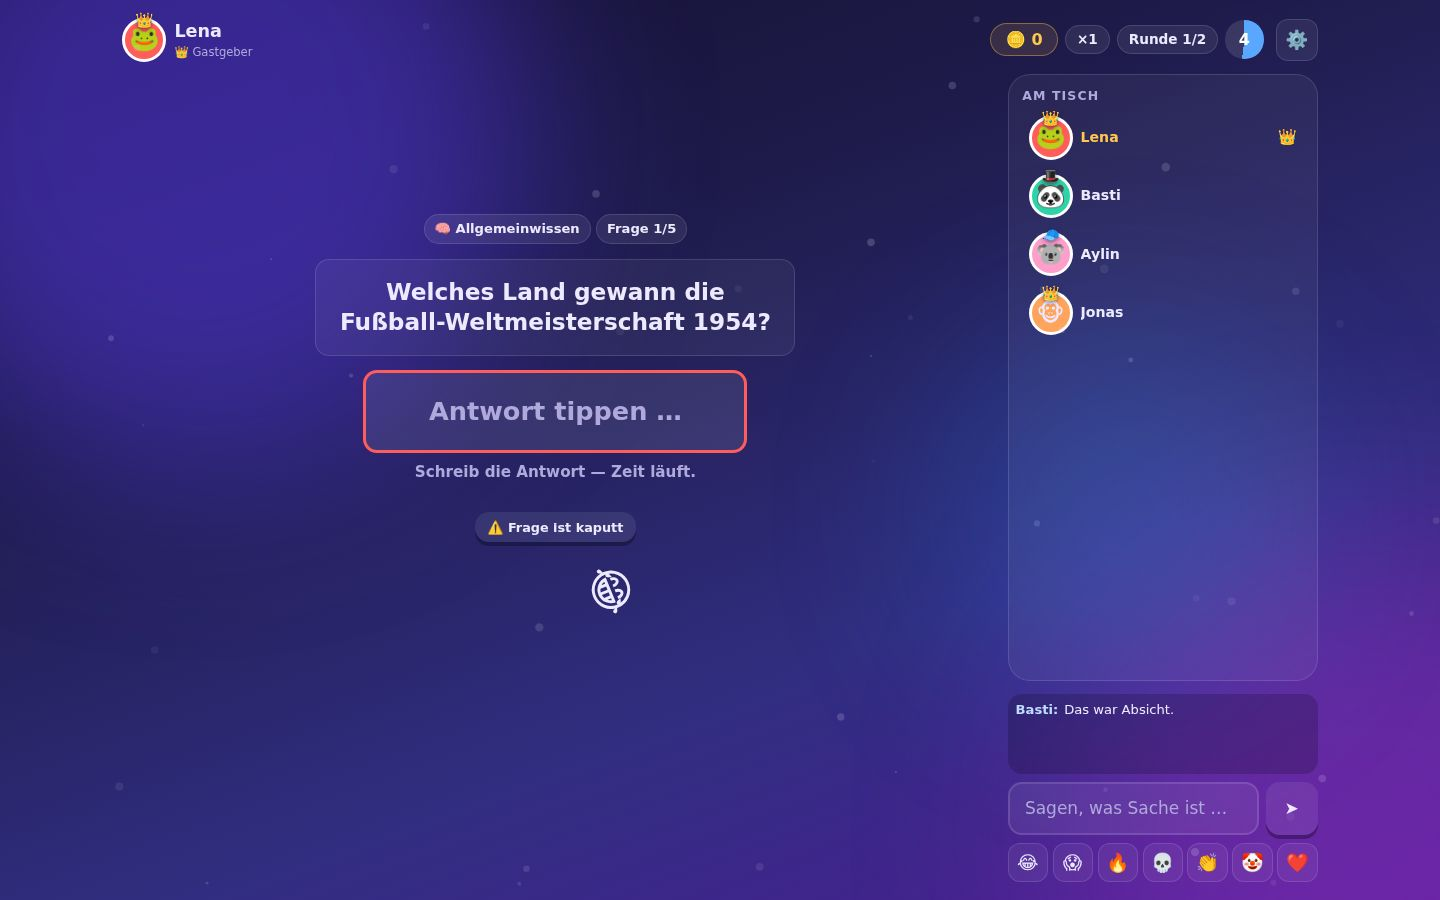
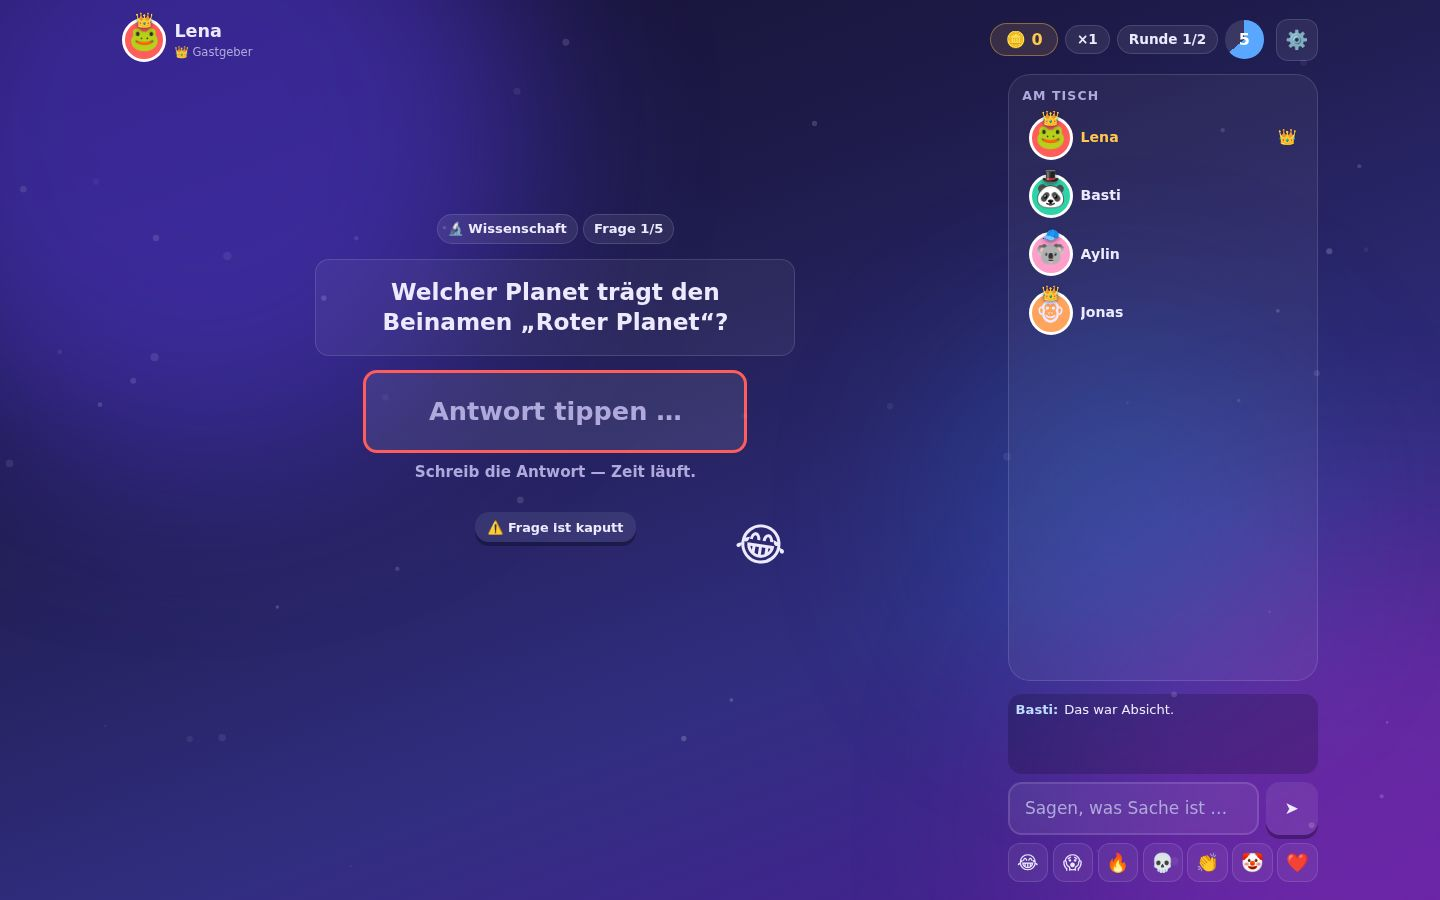
Give the recap a top edge and the wheel some presence
The recap headline was cut off: a centred flex column that overflows
clips at the top, and nothing can scroll back up to it. The round-end
scene now starts at the top like the results screen does, with the
smaller headline variant. The category wheel got bigger while I was in
there -- it carries a whole beat on its own.

Claude-Session: https://claude.ai/code/session_01FFf3gRaLyNXhXsXRuMdJNR

diff --git a/public/css/stage.css b/public/css/stage.css
@@ -36,6 +36,9 @@
 /* Der Ergebnis-Screen ist der einzige, der mehr Inhalt hat als Höhe:
    Podest, Awards, Recap und Tabelle. Er beginnt oben und scrollt. */
 body[data-phase="results"] .scene { justify-content: flex-start; gap: 0.7rem; padding-top: 0.3rem; }
+/* Die Rundenbilanz ist der zweite lange Screen. Eine zentrierte Spalte, die
+   überläuft, kappt oben — und genau dort steht die Überschrift. */
+body[data-phase="round_end"] .scene { justify-content: flex-start; gap: 0.5rem; padding-top: 0.3rem; }
 body[data-phase="results"] .podium .avatar { --size: clamp(72px, 9vw, 108px); }
 body[data-phase="results"] .crown { font-size: clamp(1.8rem, 3.4vw, 2.8rem); }
 body[data-phase="results"] .headline { font-size: clamp(1.5rem, 3.4vw, 2.6rem); }
@@ -384,13 +387,14 @@ body[data-phase="lobby"] .rail .players { visibility: hidden; }
 
 .drawbox {
   display: grid; place-items: center;
-  padding: 1.6rem 3rem; border-radius: 28px;
+  padding: clamp(1.4rem, 4vh, 2.6rem) clamp(2.6rem, 7vw, 5rem);
+  border-radius: 32px;
   background: var(--card); border: 2px solid var(--line);
   box-shadow: var(--shadow);
 }
-.slot { display: grid; place-items: center; gap: 0.4rem; min-width: 12rem; }
+.slot { display: grid; place-items: center; gap: 0.5rem; min-width: 16rem; }
 .slot-icon {
-  font-size: clamp(4rem, 11vh, 7rem); line-height: 1;
+  font-size: clamp(4.5rem, 14vh, 9rem); line-height: 1;
   animation: slotRoll 130ms ease-out;
   filter: drop-shadow(0 10px 20px rgba(8, 5, 32, 0.45));
 }

diff --git a/public/js/stage.js b/public/js/stage.js
@@ -362,7 +362,7 @@ const BUILDERS = {
     const show = spoken.slice(0, 6);
 
     scene.append(
-      el('h1', { class: 'headline rise' }, spoken.length ? 'Die Ausbeute der Runde' : `Runde ${state.round} ist durch`),
+      el('h1', { class: 'headline small rise' }, spoken.length ? 'Die Ausbeute der Runde' : `Runde ${state.round} ist durch`),
       el('p', { class: 'potflash' }, `Pott: ${state.pot.toLocaleString('de-DE')}`),
       show.length
         ? el('div', { class: 'shame rise' }, ...show.map((entry, i) => {
